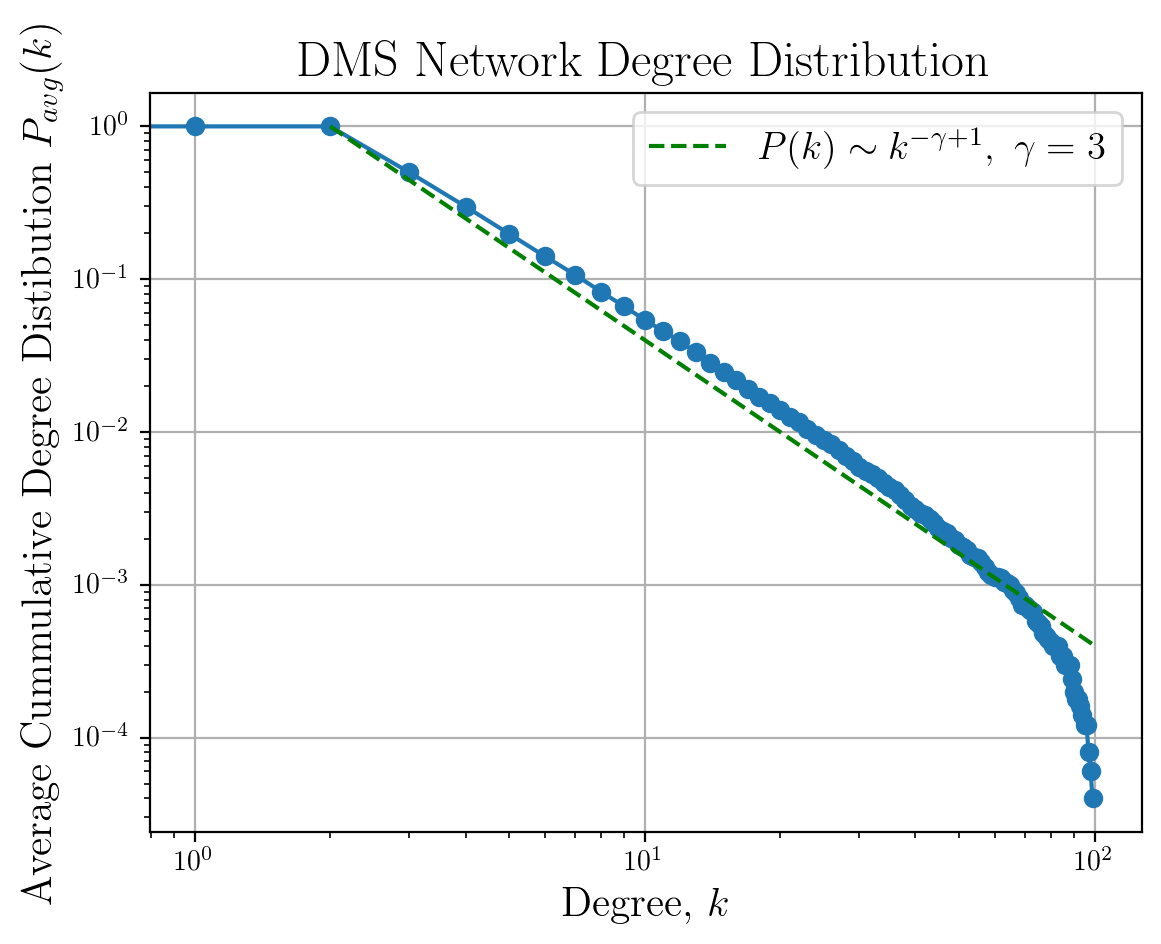
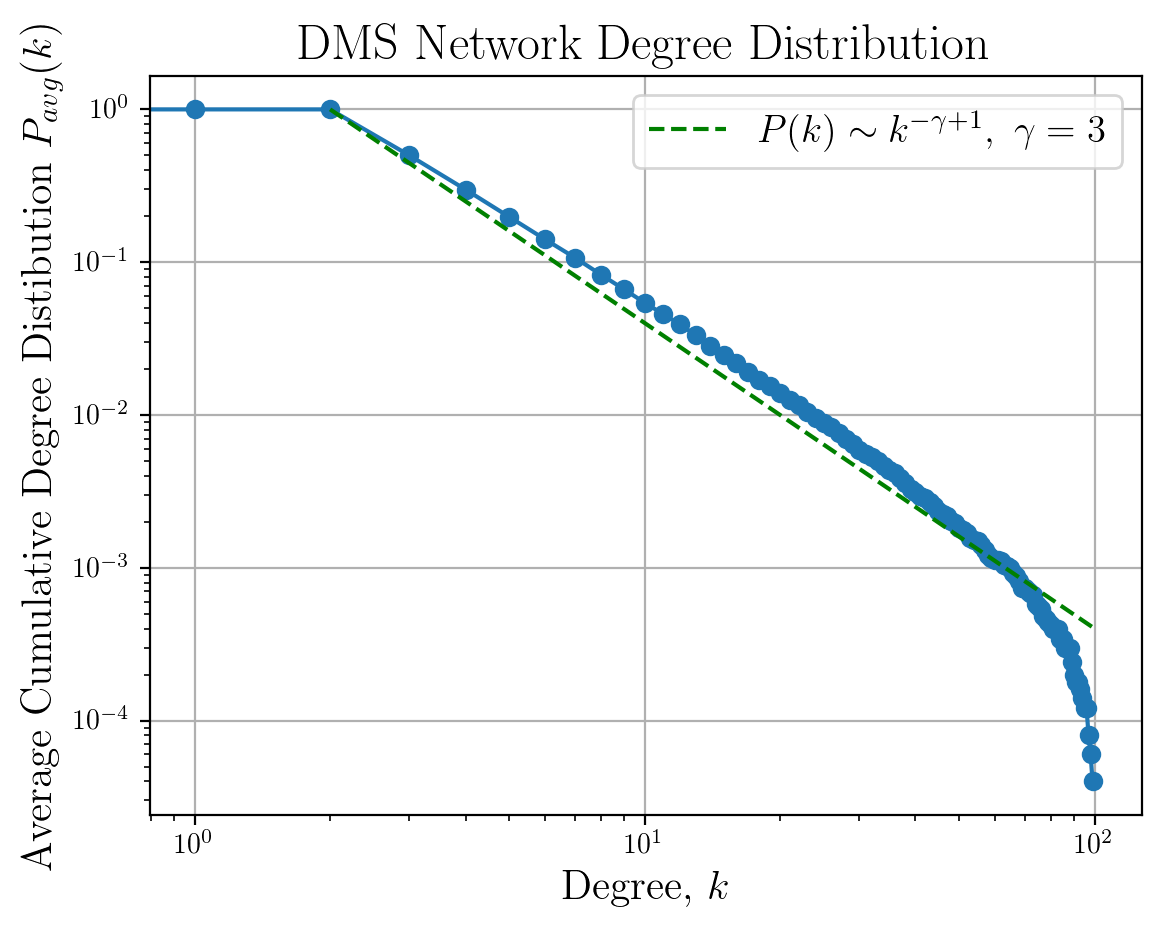
Cumulative é com 1 e não 2 m's

diff --git a/Simulations/degree_dist.py b/Simulations/degree_dist.py
@@ -56,9 +56,9 @@ def degree_dist():
     f1 = plt.figure()
     plot(range(deg_max), degree_freq, 'o-')
     if model == 6 or model == 7:
-        plt.ylabel(r'Cummulative Degree Distibution $P_{avg}(k)$', fontsize=15)
+        plt.ylabel(r'Cumulative Degree Distibution $P(k)$', fontsize=15)
     else:
-        plt.ylabel(r'Average Cummulative Degree Distibution $P_{avg}(k)$', fontsize=15)
+        plt.ylabel(r'Average Cumulative Degree Distibution $P_{avg}(k)$', fontsize=15)
     plt.xlabel(r'Degree, $k$', fontsize=15)
     plt.title(rf'{graphs_name[model]} Network Degree Distribution', fontsize=18)
     if model not in (4, 5, 6):
